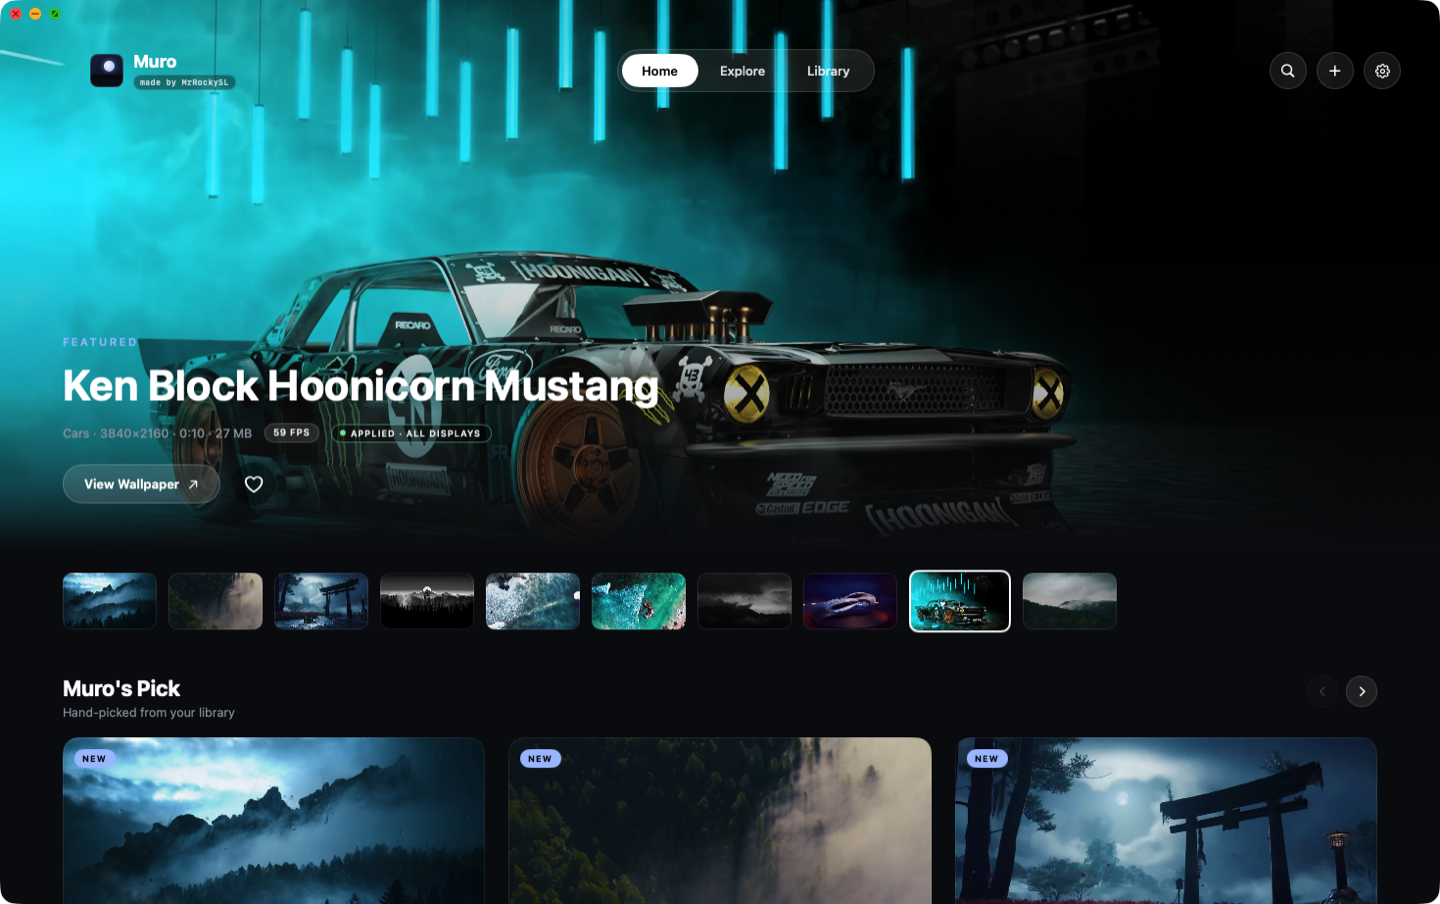
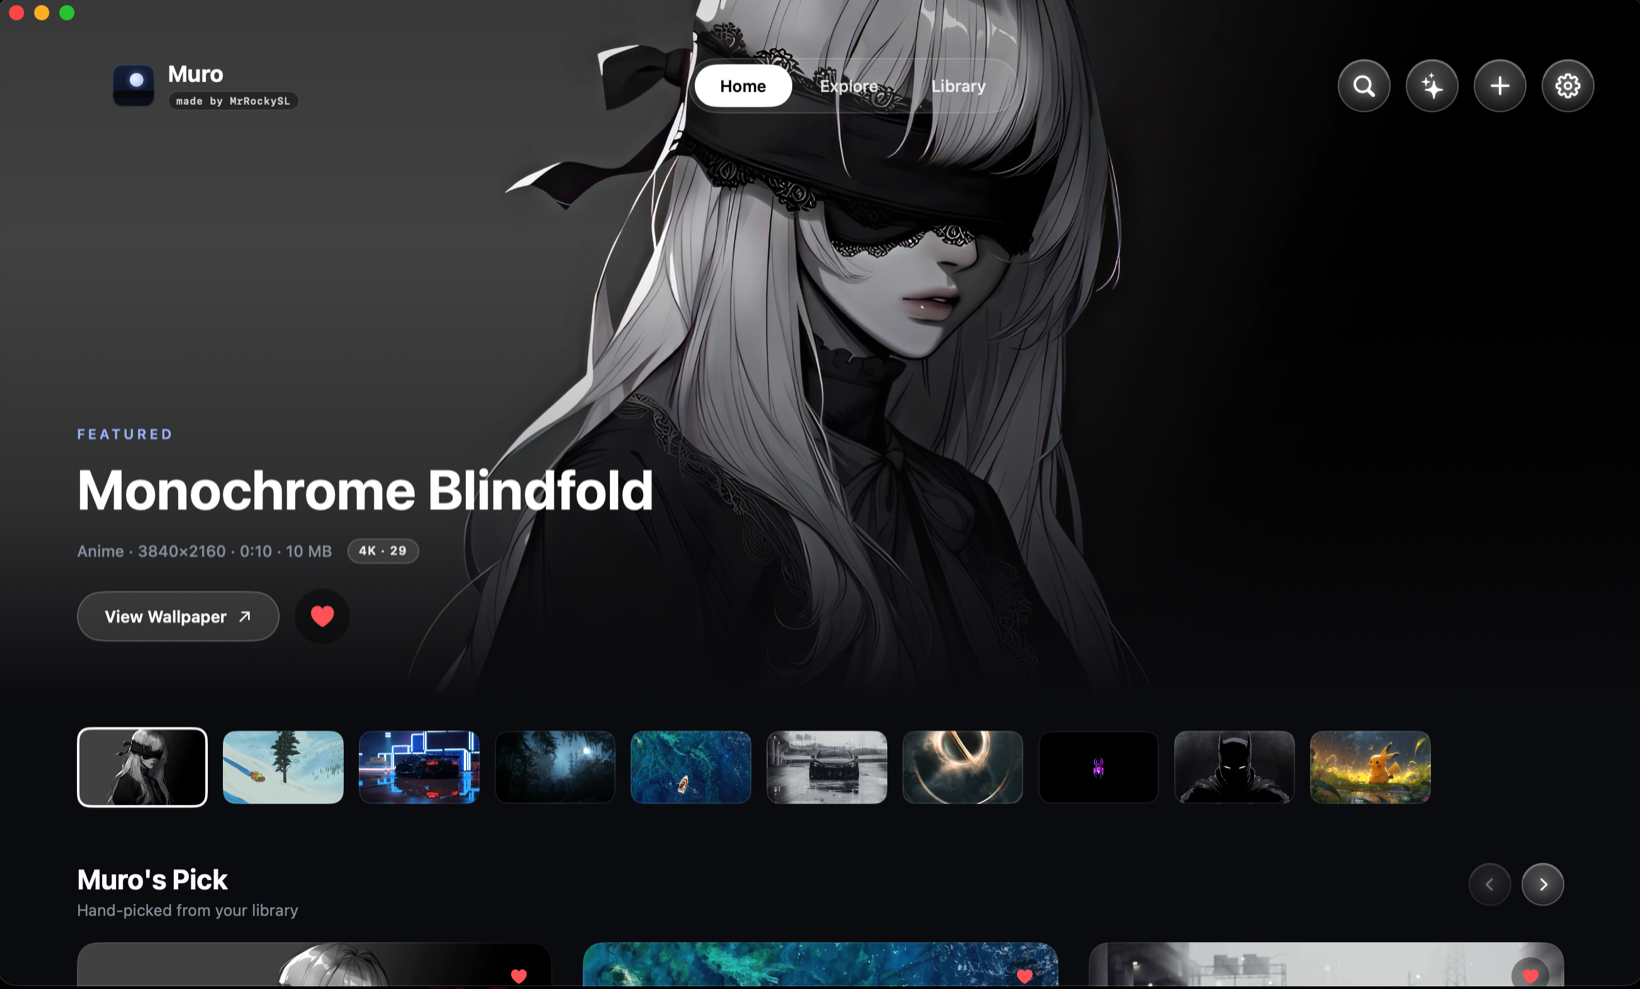
Update the README screenshot and demo video for 3.0

diff --git a/README.md b/README.md
@@ -72,7 +72,7 @@ wallpaper and every feature is unlocked.
 </p>
 
 <p align="center">
-  <a href="https://github.com/MrRockySL/Muro/releases/download/v2.0/muro-demo.mp4"><strong>Watch Muro in action</strong></a>
+  <a href="https://github.com/MrRockySL/Muro/releases/download/v3.0/muro-demo.mp4"><strong>Watch Muro in action</strong></a>
 </p>
 
 ---
